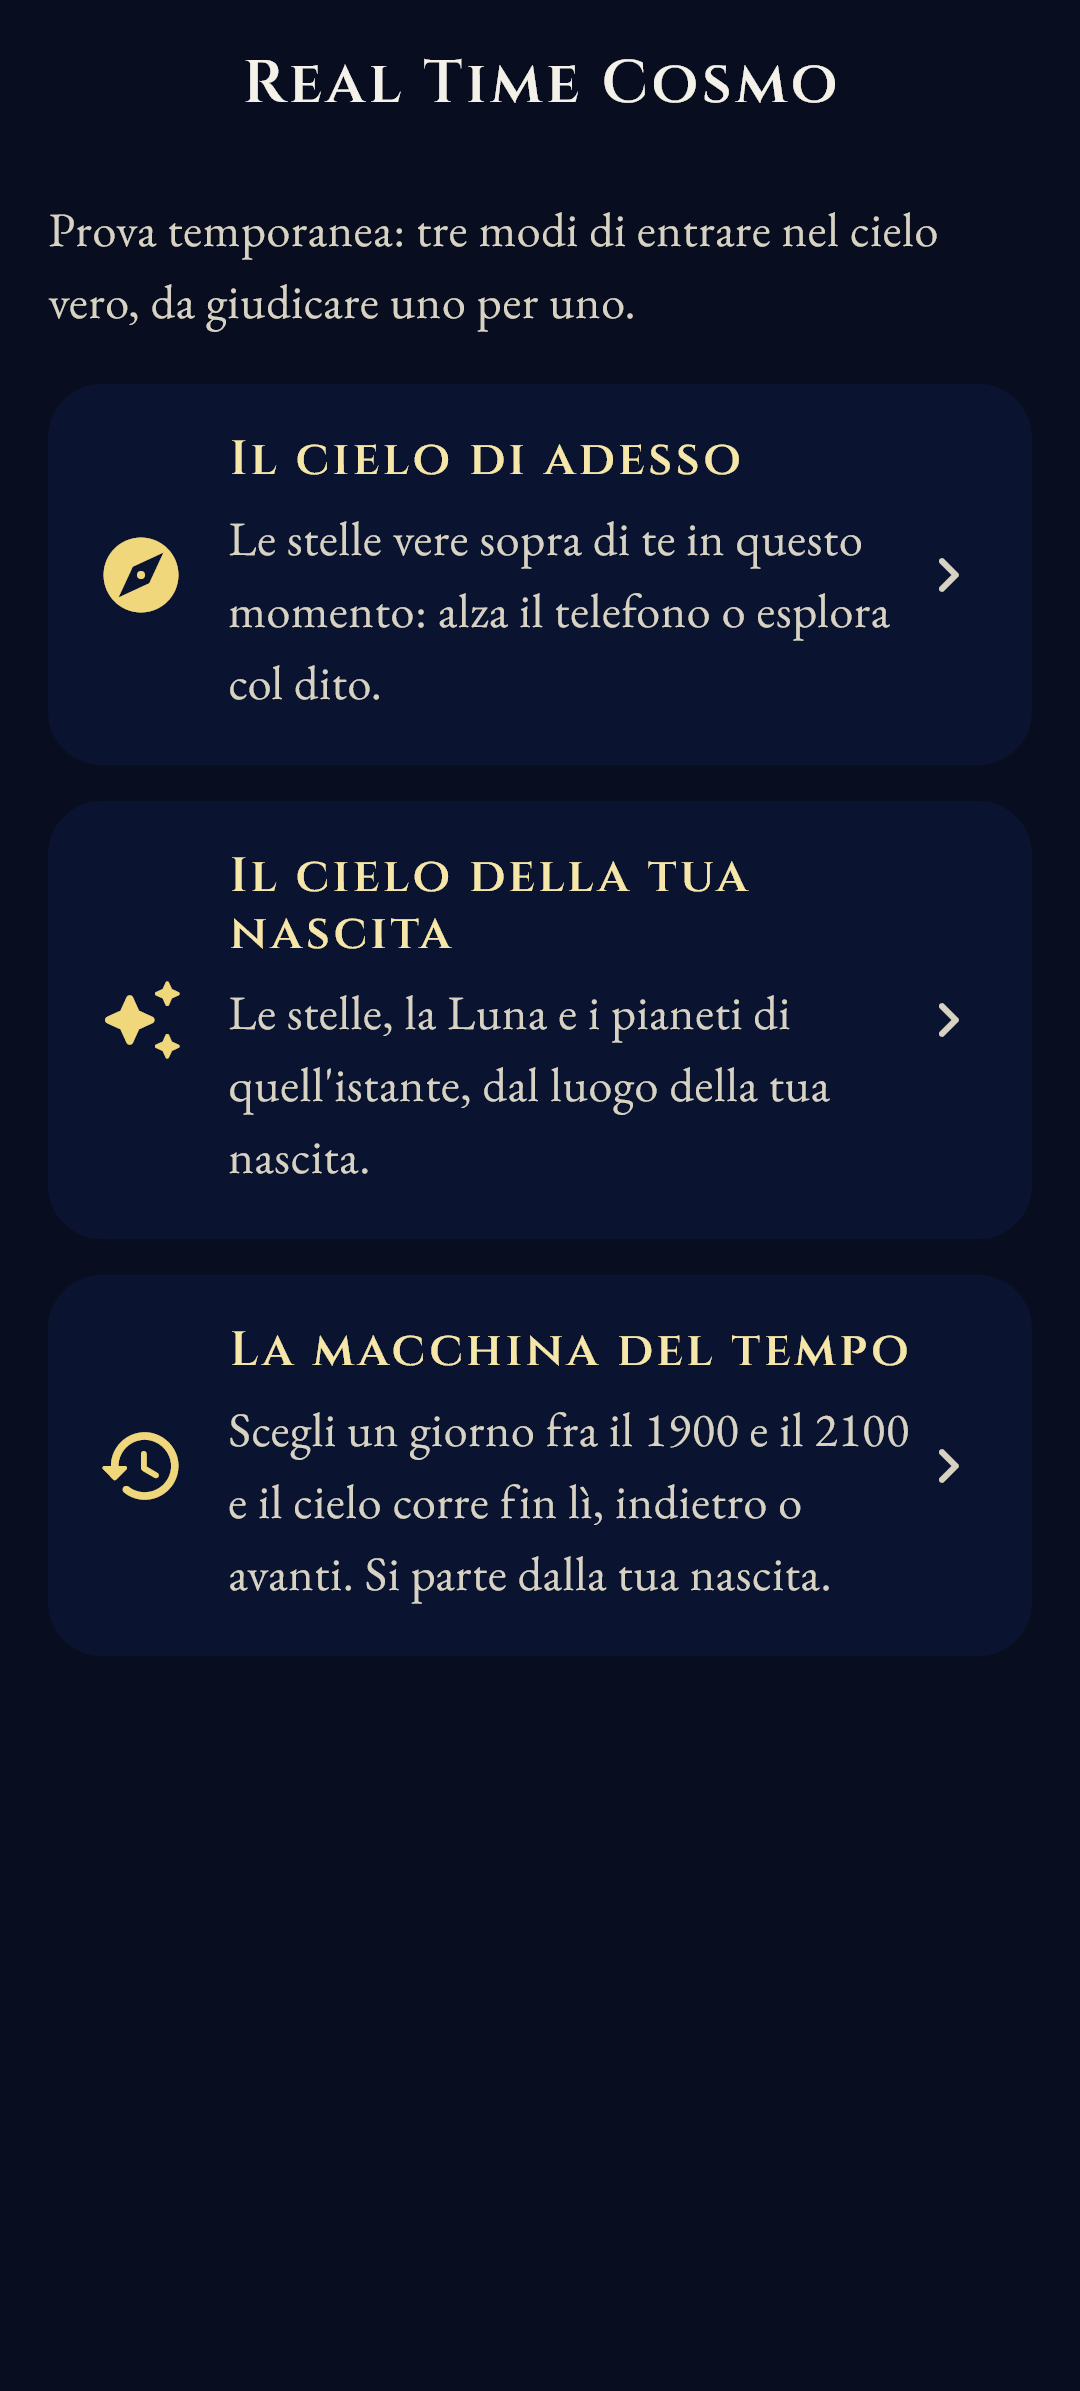
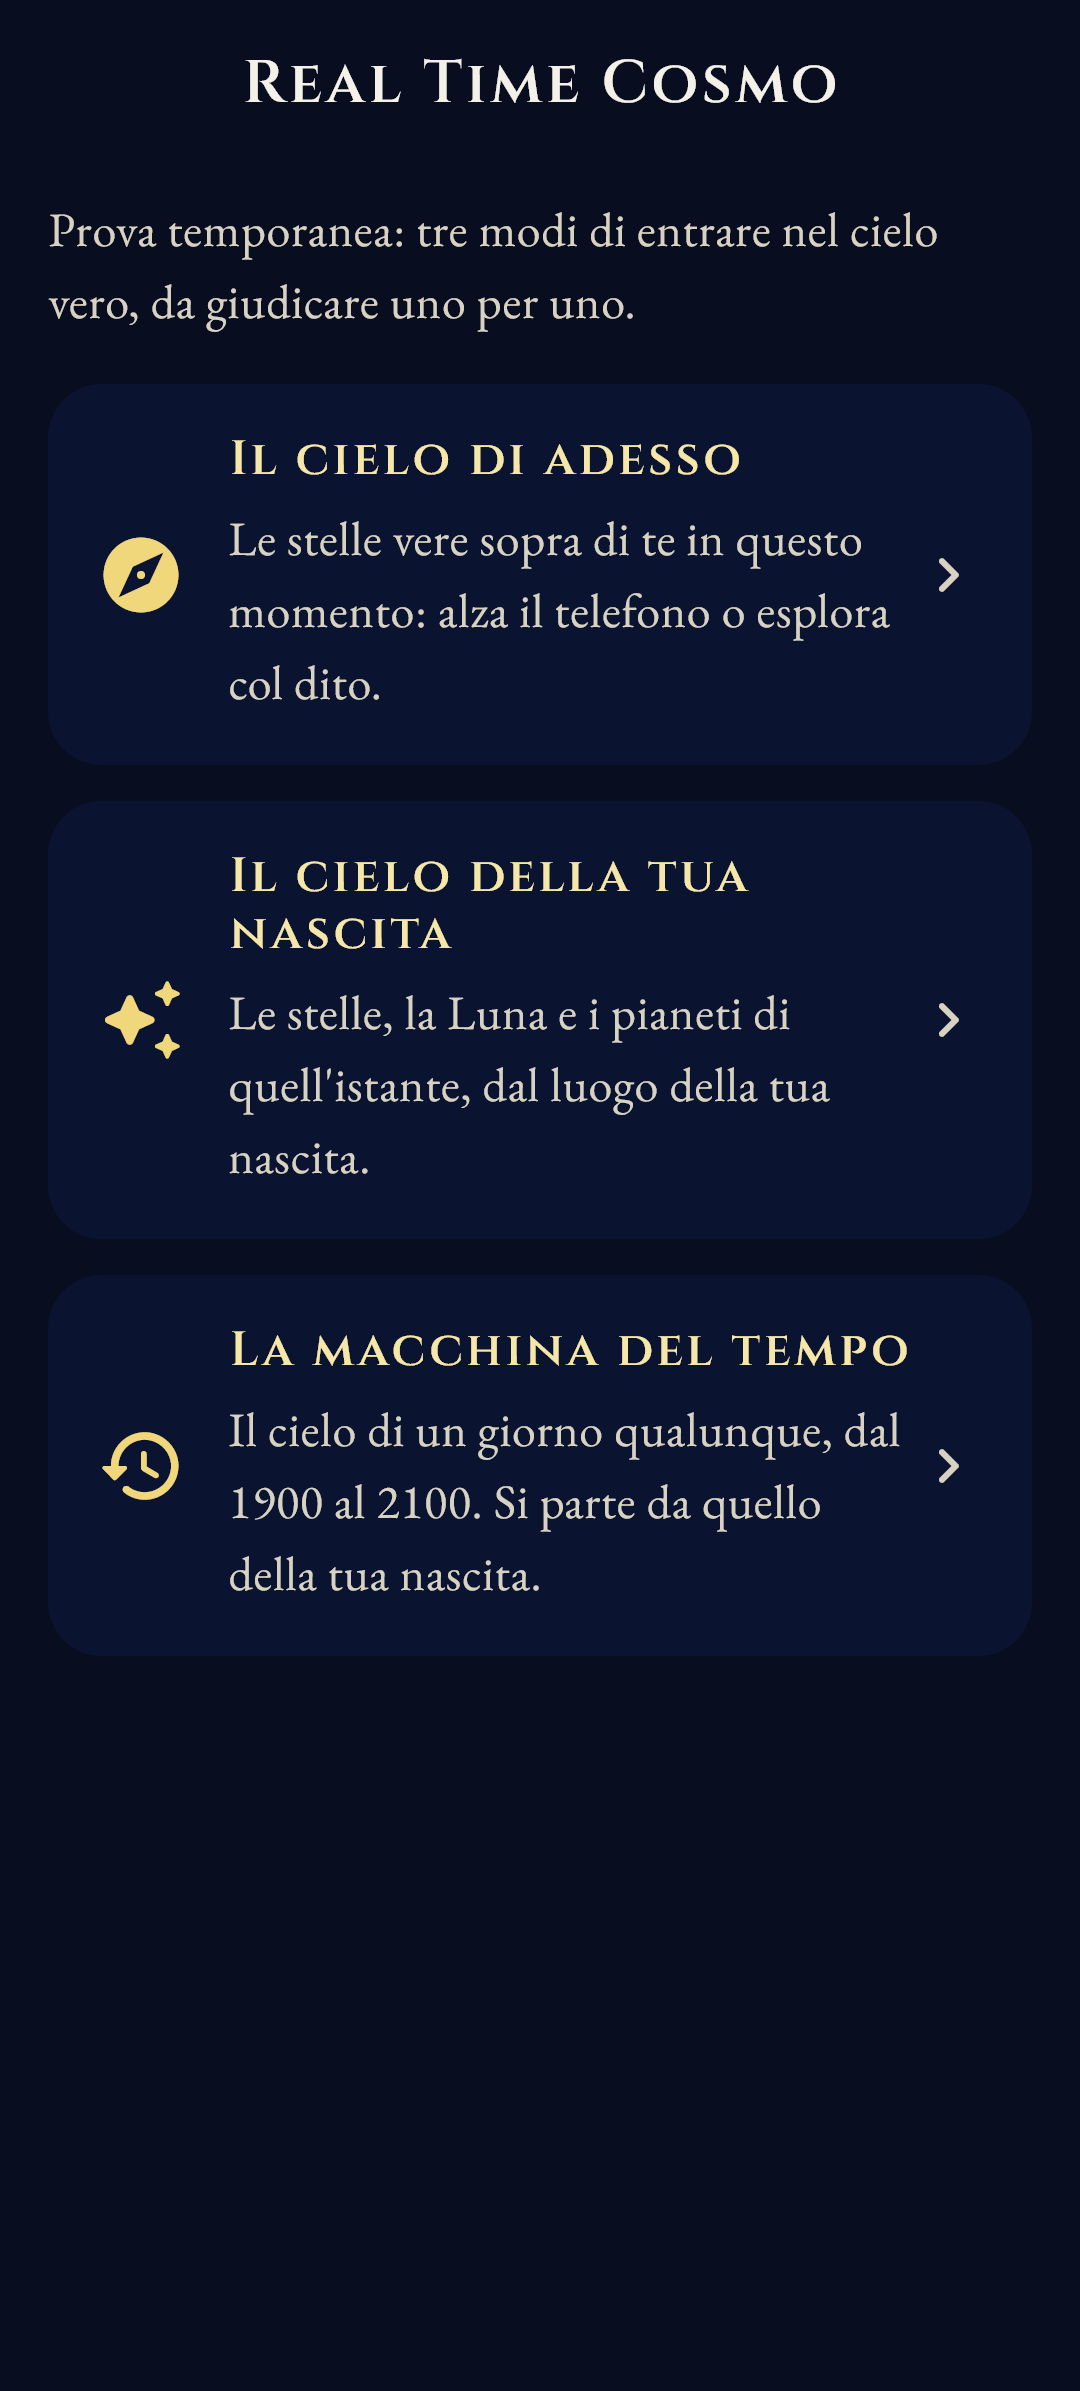
FH, le tre conferme dell'Architetto e il numero 2304 per la consegna chiesta dal fondatore ("Quando hai finito, mi serve consegna nuova build"). Sottotitolo della voce verbatim: "Il cielo di un giorno qualunque, dal 1900 al 2100. Si parte da quello della tua nascita."; il pulsante del pannello del t

Changed region(s): [[0.2139, 0.588, 0.8556, 0.6809]]

diff --git a/lib/features/real_time_cosmo/il_pannello_del_tempo.dart b/lib/features/real_time_cosmo/il_pannello_del_tempo.dart
@@ -35,8 +35,13 @@ class SceltaDelTempo {
   final bool adesso;
 }
 
-/// L'etichetta del pulsante che fa partire la corsa.
+/// L'etichetta del pulsante della schermata che fa partire la corsa: un
+/// invito (Architetto, 10 ottobre 2026).
 const String kEtichettaDelViaggio = 'Viaggia nel tempo';
+
+/// L'etichetta del pulsante del pannello che conferma il giorno scelto: dice
+/// che porta li' (Architetto, 10 ottobre 2026).
+const String kEtichettaDellaConferma = 'Portami lì';
 
 /// L'altezza di una voce delle ruote: l'area di tocco minima delle Linee
 /// Guida, 48 punti (D9).
@@ -283,7 +288,7 @@ class _PannelloDelTempoState extends State<PannelloDelTempo> {
               onPressed: () => widget
                   .onParti(SceltaDelTempo(_giorno, _luogo, adesso: _adesso)),
               child: Text(
-                kEtichettaDelViaggio,
+                kEtichettaDellaConferma,
                 style: TypographyTokens.corpo(weight: 600)
                     .copyWith(color: palette.deepest),
               ),

diff --git a/lib/features/real_time_cosmo/real_time_cosmo_screen.dart b/lib/features/real_time_cosmo/real_time_cosmo_screen.dart
@@ -120,11 +120,12 @@ class RealTimeCosmoScreen extends StatelessWidget {
       ModoDelCielo.ritorno,
       Icons.history_rounded,
       // Aggiunta della Macchina del tempo all'ordine FH, voce B1: "vorrei
-      // cambiarlo in la macchina del tempo". Il testo sotto diceva solo il
-      // ritorno alla nascita, e adesso si va anche avanti.
+      // cambiarlo in la macchina del tempo". Il sottotitolo e' quello
+      // dell'Architetto del 10 ottobre 2026, sul registro delle altre due
+      // voci: la cosa prima del comando.
       'La macchina del tempo',
-      'Scegli un giorno fra il 1900 e il 2100 e il cielo corre fin lì, '
-          'indietro o avanti. Si parte dalla tua nascita.',
+      'Il cielo di un giorno qualunque, dal 1900 al 2100. Si parte da quello '
+          'della tua nascita.',
     ),
   ];
 }

diff --git a/docs/ordini/RAPPORTO_ORDINE_FH.md b/docs/ordini/RAPPORTO_ORDINE_FH.md
@@ -248,3 +248,9 @@ Una volta sola (C3), sul commit `de2abc5e`, in un worktree temporaneo con i fine
 Dopo il commit `de2abc5e` sono entrate solo la prova della 7.4 (una prova, provata da sola) e queste due correzioni, provate con le loro guardie e con le anteprime FH e della Macchina.
 
 `flutter analyze` sul progetto intero: nessun problema.
+
+**Aggiunta del 10 ottobre 2026, ordine FH, risposta dell'Architetto alle tre conferme.** Il sottotitolo della voce del menu e' quello dell'Architetto, verbatim: "Il cielo di un giorno qualunque, dal 1900 al 2100. Si parte da quello della tua nascita." Il pulsante della schermata resta "Viaggia nel tempo"; quello che conferma il giorno nel pannello del tempo dice "Portami lì". Nell'app la corsa parte da tutti e due: dal pulsante della schermata col giorno scelto, e dal pannello dopo la scelta; la scheda del menu utente non ha un pulsante, si tocca la scheda intera. PROVA: docs/collaudo/FH/aggiunta_i01_il_menu_rinominato.png, docs/collaudo/FH/aggiunta_i03_il_pannello_con_la_nascita.png.
+
+**Aggiunta del 10 ottobre 2026, ordine FH, la larghezza della Via Lattea.** Il codice non da' per scontata la larghezza 1456: la maglia legge larghezza e altezza dall'immagine (lib/features/real_time_cosmo/la_via_lattea_in_scena.dart, riga 64), la colonna e' larghezza/2 meno la longitudine per larghezza/360, la riga viene dall'altezza, e nessuna prova guarda le dimensioni dell'asset. Con l'asset largo 1336 la maglia funziona com'e', purche' copra 360 gradi per 180. Danno invece per scontata la forma di oggi due testi: il commento della misura in lib/core/astro/real_time_cosmo/la_via_lattea.dart (colonna 728 di 1456, il taglio a 45,5 gradi) e la nota_cosmo di docs/stato_asset.json ("2 a 1" e "802.958 byte in tutto"). Si riscrivono quando arriva l'asset nuovo, con le misure rifatte su di lui.
+
+**Aggiunta del 10 ottobre 2026, ordine FH, una mia misura sbagliata.** Le "due cuciture interne deboli, alle colonne 134 e 1320" della parte 9 erano rumore: salti di 2,25 volte quello tipico, contro i 2,1 che l'Architetto ha misurato come rumore dentro l'immagine. La cucitura vera e' sul bordo, fra la colonna 0 e la 1455, nella fascia delle righe 360-449 (scarto medio 13,9, massimo 28 su 255, misura dell'Architetto). La mia misura del bordo faceva la media su tutte le righe (4,34) e diluiva proprio quella fascia. Padre: FH parte 9, la misura dell'asset. Gli asset non si toccano: quello corretto arriva dall'Architetto.

diff --git a/docs/STATO_VIVO.md b/docs/STATO_VIVO.md
@@ -6777,7 +6777,7 @@ Nove parti, arrivate in tre pezzi il 7 ottobre 2026, partenza `d483eae6`. Testo 
 - **Le stelle del cielo di un istante** si girano coi tre assi della porta unica invece di passare dalla porta stella per stella: scarto dalla porta 9,2e-8.
 - **Guardie e prove di vista** (parte 15): `docs/collaudo/FH/prove_di_vista.txt`, nove su nove cadute con l'innesto entrato e il ripristino al byte; registro delle guardie a 732.
 - **APERTO**: la misura C5 dell'aggiunta (fotogrammi al secondo nella corsa sul Realme) e le registrazioni I7 e I8. Sul Realme le tre scale di animazione sono a 0, cioe' Riduci Movimento acceso, e la corsa non parte: la richiesta di riaccenderle e' girata al fondatore. Una build di prova dal commit `a0d2dded` e' installata sul Realme (numero 2303, nessuna consegna); la correzione della voce E9 (commit `40f1c849`) entrera' nella prossima build.
-- **Da confermare dal fondatore**: il sottotitolo nuovo della voce del menu; l'etichetta del pulsante "Viaggia nel tempo"; due cuciture deboli dentro l'asset della Via Lattea (colonne 134 e 1320).
+- **Le conferme dell'Architetto** (10 ottobre 2026): il sottotitolo della voce e' "Il cielo di un giorno qualunque, dal 1900 al 2100. Si parte da quello della tua nascita."; il pulsante della schermata dice "Viaggia nel tempo" e quello del pannello "Portami lì". La cucitura della Via Lattea e' sul bordo (colonne 0 e 1455, righe 360-449), non dentro l'immagine come avevo scritto: l'asset corretto, largo 1336, arriva dall'Architetto. Il codice legge la larghezza dall'immagine; quando arriva si riscrivono il commento di `la_via_lattea.dart` e la nota_cosmo di `docs/stato_asset.json`.
 
 ## Regole ferree
 
